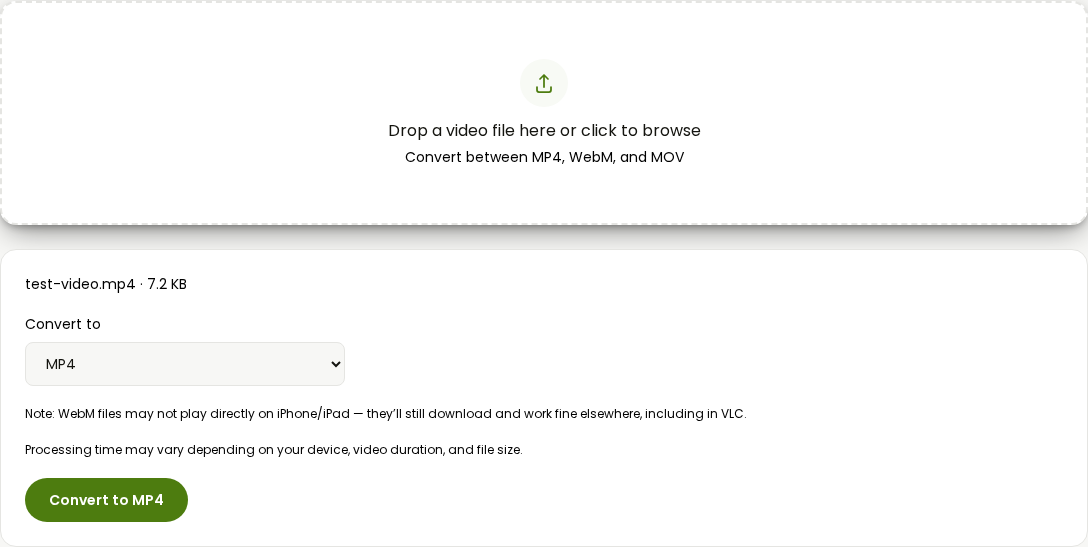
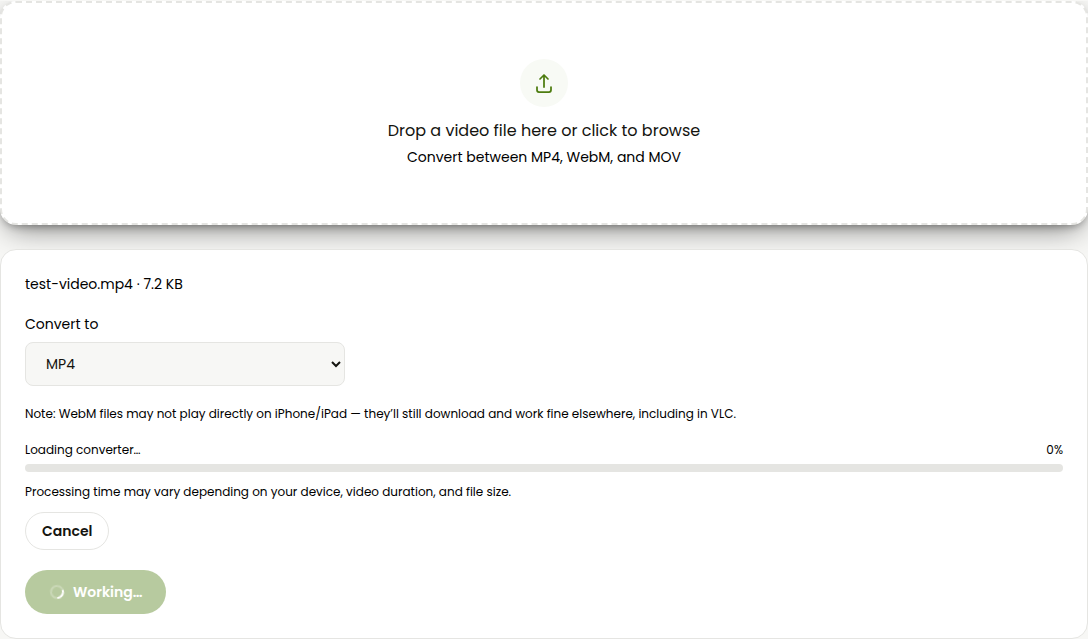
Fix screenshot marker mislabeling: comparison mentions and mid-process states
Two bugs found while regenerating images for the real-screenshots fix:

1. Marker resolution ("closest mention wins") picked up incidental
   comparison mentions of a competitor's name inside a tool's own step
   prose -- e.g. compress-video-online.md's Quality-slider step says
   "the same setting desktop tools like HandBrake expose directly",
   and that mention sat closer to the marker than the section's actual
   subject. Result: 3 of AI Convertly's own compress-video-tool
   screenshots were captured and published as HandBrake's real
   homepage instead. Fixed with a shared lastGenuineMentionIndex()
   helper (scripts/lib/textMatch.mjs) that skips an occurrence
   immediately preceded by comparison language ("like", "such as",
   "compared to", etc.) and keeps searching backward for a genuine
   mention. Wired into both findInternalTool and findExternalTool.
   Verified against a site-wide marker-resolution audit (no other
   article's resolution changed).

2. Markers describing a transient "mid-conversion"/"Working..." state
   never matched RESULT_STATE_RE, so the tool was screenshotted in its
   untouched idle state instead of the busy state the caption
   describes. Added MID_PROCESS_STATE_RE and a capture branch that
   clicks the primary action and screenshots immediately (rather than
   waiting for the download button), confirmed against the real
   isBusy ? "Working..." : ... button in CompressVideoClient.tsx.
   Affects 4 articles.
[…]

diff --git a/content/blog/video-converter-online-free.md b/content/blog/video-converter-online-free.md
@@ -46,7 +46,7 @@ FreeConvert is one of the sites people mean when they search "online video conve
 
 1. Go to FreeConvert and click Choose Files, or drag your video onto the page.
 
-![FreeConvert's converter page with the Choose Files button and drop area](/blog/video-converter-online-free-shot-04.svg)
+![FreeConvert's converter page with the Choose Files button and drop area](/blog/video-converter-online-free-shot-04.png)
 
 2. Pick your target format from the list, then click Convert.
 
